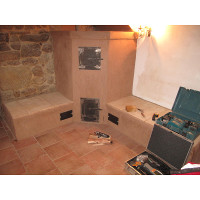
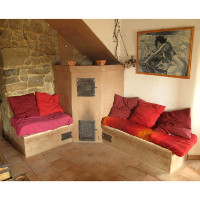
modifs_29082017

diff --git a/batchrocket_112016.html b/batchrocket_112016.html
@@ -15,10 +15,7 @@
 
     <script type="text/javascript" src="./assets/js/jquery.js"></script>
     <script type="text/javascript" src="./assets/js/bootstrap.min.js"></script>
-    <script type="text/x-mathjax-config">
-        MathJax.Hub.Config({ "HTML-CSS": { scale: 100 }});
-    </script>
-    <script type="text/javascript" src="./assets/js/mathjax/MathJax.js?config=TeX-AMS-MML_HTMLorMML"></script>
+
 </head>
 
 <body>
@@ -55,7 +52,7 @@
 
                 <div class="col-sm-10">
                     <div class="shadow-box">
-                        
+
 
                         <div class="content-box">
                             <h2>Plan</h2>
@@ -80,9 +77,9 @@
                             <h3>Fiche technique :</h3>
                             <hr>
                             <div class="col-sm-12">
-                                <img src="./assets/img/batchrocket_112016/batchrocket_112016_118.JPG" class="img-responsive">
+                                <img src="./assets/img/batchrocket_112016/batchrocket_112016_124.JPG" class="img-responsive">
                             </div>
-                            <p class="subtitle">Poêle de masse Batchrocket en 175 mm avec une seconde peau en briques de terre crue. Les portes ne sont pas encore peintes.</p>
+                            <p class="subtitle">Poêle de masse Batchrocket en 175 mm avec une seconde peau en briques de terre crue. Les portes n'ont pas été peintes se sont culottées avec l'usage.</p>
                             <p>Le coeur de chauffe de ce poêle de masse est un Batchrocket de 175 mm. Les dimensions du foyer sont 252 x 380 x 500 mm (larg. x haut. x prof.). Le poêle mesure 150 cm de hauteur et la cloche principale a un empattement de 100x100
                                 cm environ. Sous les carreaux et la dalle, 1 m3 de béton avec environ 2 m3 de pierres ont été coulés pour combler le vide sanitaire.</p>
                             <!-- <p>
